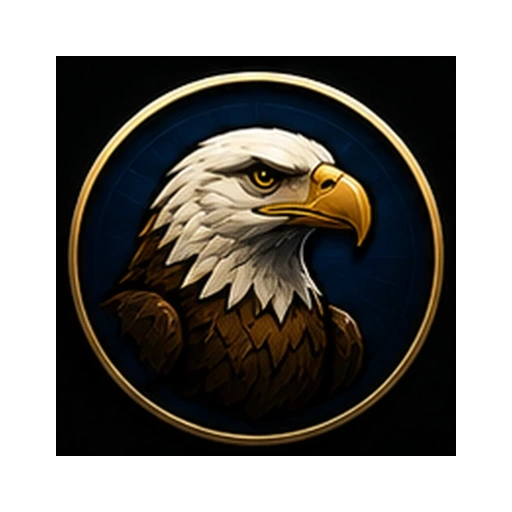
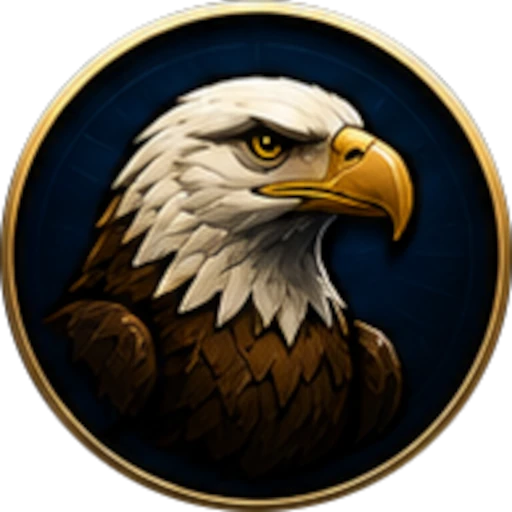
patch-babyfoot-live-header-csc

diff --git a/src/pages/babyfoot/BabyFootPlay.tsx b/src/pages/babyfoot/BabyFootPlay.tsx
@@ -608,6 +608,7 @@ export default function BabyFootPlay({ go, onFinish, params }: Props) {
   const [pickTeam, setPickTeam] = useState<BabyFootTeamId | null>(null);
   const [pickGoalSource, setPickGoalSource] = useState<BabyFootGoalSource>("AV");
   const [cscAwardedTeam, setCscAwardedTeam] = useState<BabyFootTeamId | null>(null);
+  const [cscGlobalPicker, setCscGlobalPicker] = useState(false);
   const [activeTab, setActiveTab] = useState<PlayTab>("score");
   const leagueResultSavedRef = useRef(false);
   const historySavedMatchRef = useRef<string | null>(null);
@@ -738,7 +739,20 @@ export default function BabyFootPlay({ go, onFinish, params }: Props) {
     : regularLimitMs != null
     ? fmt(regularRemain ?? 0)
     : fmt(durationMs);
-  const secondaryLabel = state.setsEnabled ? `BO${state.setsBestOf || 3}` : `Target ${state.target}`;
+  const scoreRuleLabel = (() => {
+    if (state.scoreMode === "balls5") return "5 BALLS";
+    if (state.scoreMode === "balls10") return "10 BALLS";
+    if (state.scoreMode === "balls11") return "11 BALLS";
+    if (state.scoreMode === "chrono") return "CHRONO";
+    return `FIRST ${state.target || 10}`;
+  })();
+  const secondaryLabel = state.setsEnabled ? `BO${state.setsBestOf || 3}` : undefined;
+  const liveRuleLabels = [
+    scoreRuleLabel,
+    state.scoreMode === "chrono" && state.goldenGoal ? "GOLD" : null,
+    state.scoreMode === "chrono" && !state.goldenGoal && (state.overtimeSec || 0) > 0 ? "PROL." : null,
+    state.rulesPreset === "bar" ? "BAR" : "OFFICIAL",
+  ].filter((entry): entry is string => Boolean(entry));
 
   const liveContext = [
     `Leader ${leaderLabel}`,
@@ -1007,11 +1021,25 @@ export default function BabyFootPlay({ go, onFinish, params }: Props) {
     setPickGoalSource("AV");
     setPickTeam(null);
     setCscAwardedTeam(null);
+    setCscGlobalPicker(false);
   };
 
   const openCscPicker = (awardedTeam: BabyFootTeamId) => {
     if (state.finished || state.phase === "penalties") return;
     setCscAwardedTeam(awardedTeam);
+  };
+
+  const openGlobalCscPicker = () => {
+    if (state.finished || state.phase === "penalties") return;
+    setPickTeam(null);
+    setCscAwardedTeam(null);
+    setCscGlobalPicker(true);
+  };
+
+  const applyCscByGuilty = (guiltyTeam: BabyFootTeamId, guiltyPlayerId?: string | null) => {
+    if (state.finished || state.phase === "penalties") return;
+    setState(addSpecialScoreEvent(guiltyTeam, "csc", guiltyPlayerId ?? null, "AV"));
+    closeQuickSheet();
   };
 
   const applyCsc = (awardedTeam: BabyFootTeamId, guiltyPlayerId?: string | null) => {
@@ -1200,6 +1228,7 @@ export default function BabyFootPlay({ go, onFinish, params }: Props) {
               modeLabel={state.mode}
               clockLabel={clockLabel}
               secondaryLabel={secondaryLabel}
+              ruleLabels={liveRuleLabels}
               clockRunning={!!state.clockRunning}
               hasStarted={hasClockStarted}
               onStartClock={() => setState(startClock())}
@@ -1233,6 +1262,7 @@ export default function BabyFootPlay({ go, onFinish, params }: Props) {
                 handicapB={state.handicapB}
                 onAddGoalA={() => openQuickSheet("A", "AV")}
                 onAddGoalB={() => openQuickSheet("B", "AV")}
+                onAddCsc={openGlobalCscPicker}
                 goalsDisabled={state.finished || state.phase === "penalties"}
               />
 
@@ -1362,6 +1392,59 @@ export default function BabyFootPlay({ go, onFinish, params }: Props) {
           ) : null}
         </div>
       </div>
+      {cscGlobalPicker ? (
+        <div
+          style={{
+            position: "fixed",
+            inset: 0,
+            background: "rgba(0,0,0,0.62)",
+            backdropFilter: "blur(6px)",
+            display: "grid",
+            placeItems: "center",
+            padding: 16,
+            zIndex: 80,
+          }}
+          onClick={closeQuickSheet}
+        >
+          <div style={{ ...shellCard(), width: "100%", maxWidth: 440 }} onClick={(e) => e.stopPropagation()}>
+            <div style={{ fontSize: 20, fontWeight: 1100 }}>CSC — joueur fautif</div>
+            <div style={{ marginTop: 8, fontSize: 14, color: "rgba(255,255,255,0.74)" }}>
+              Sélectionne le joueur qui marque contre son camp. Le point est automatiquement donné au camp adverse.
+            </div>
+            <div style={{ marginTop: 16, display: "grid", gap: 14 }}>
+              {(["A", "B"] as BabyFootTeamId[]).map((teamKey) => {
+                const ids = teamKey === "A" ? teamAIds : teamBIds;
+                const accent = teamKey === "A" ? "#c7ff26" : "#ff59b0";
+                const title = teamKey === "A" ? visualA.name : visualB.name;
+                return (
+                  <div key={teamKey} style={{ borderRadius: 18, padding: 10, border: `1px solid ${accent}40`, background: `${accent}10` }}>
+                    <div style={{ color: accent, fontSize: 12, fontWeight: 1100, textTransform: "uppercase", letterSpacing: 0.7 }}>CSC {title}</div>
+                    <div style={{ marginTop: 10, display: "grid", gridTemplateColumns: "repeat(2, minmax(0, 1fr))", gap: 10 }}>
+                      {ids.length ? ids.map((playerId) => {
+                        const profile = getProfile(playerId);
+                        const label = profile?.name || playerId;
+                        return (
+                          <button key={playerId} type="button" onClick={() => applyCscByGuilty(teamKey, playerId)} style={{ minWidth: 0, borderRadius: 16, padding: 10, border: `1px solid ${accent}55`, background: "rgba(255,255,255,.035)", color: "#fff", display: "grid", gap: 8, justifyItems: "center", cursor: "pointer" }}>
+                            <ProfileAvatar profile={profile || { id: playerId, name: playerId }} size={46} />
+                            <span style={{ maxWidth: "100%", whiteSpace: "nowrap", overflow: "hidden", textOverflow: "ellipsis", fontSize: 12, fontWeight: 1100 }}>{label}</span>
+                          </button>
+                        );
+                      }) : (
+                        <button type="button" onClick={() => applyCscByGuilty(teamKey, null)} style={{ ...actionStyle("danger"), gridColumn: "1 / -1" }}>
+                          CSC collectif {title}
+                        </button>
+                      )}
+                    </div>
+                  </div>
+                );
+              })}
+            </div>
+            <button type="button" onClick={closeQuickSheet} style={{ ...actionStyle("neutral"), marginTop: 12 }}>
+              Fermer
+            </button>
+          </div>
+        </div>
+      ) : null}
       {pickTeam ? (
         <div
           style={{

diff --git a/src/components/babyfoot/BabyFootLiveHeader.tsx b/src/components/babyfoot/BabyFootLiveHeader.tsx
@@ -10,6 +10,7 @@ type Props = {
   modeLabel: string;
   clockLabel: string;
   secondaryLabel?: string;
+  ruleLabels?: string[];
   clockRunning: boolean;
   hasStarted: boolean;
   onStartClock: () => void;
@@ -24,13 +25,13 @@ function pill(accent = false): React.CSSProperties {
     display: "inline-flex",
     alignItems: "center",
     justifyContent: "center",
-    minHeight: 30,
-    padding: "0 12px",
+    minHeight: 26,
+    padding: "0 9px",
     borderRadius: 999,
     border: accent ? "1px solid rgba(199,255,38,0.34)" : "1px solid rgba(255,255,255,0.08)",
     background: accent ? "linear-gradient(180deg, rgba(199,255,38,0.18), rgba(199,255,38,0.07))" : "rgba(255,255,255,0.04)",
     color: accent ? "#f5ffbf" : "rgba(255,255,255,0.94)",
-    fontSize: 11,
+    fontSize: 10,
     fontWeight: 1000,
     letterSpacing: 0.25,
     whiteSpace: "nowrap",
@@ -65,7 +66,7 @@ function tabButton(active: boolean): React.CSSProperties {
     border: active ? "1px solid rgba(199,255,38,0.30)" : "1px solid rgba(255,255,255,0.08)",
     background: active ? "linear-gradient(180deg, rgba(199,255,38,0.18), rgba(199,255,38,0.07))" : "rgba(255,255,255,0.04)",
     color: active ? "#f5ffbf" : "rgba(255,255,255,0.92)",
-    fontSize: 11,
+    fontSize: 10,
     fontWeight: 1000,
     letterSpacing: 0.35,
     textTransform: "uppercase",
@@ -99,6 +100,7 @@ export default function BabyFootLiveHeader({
   modeLabel,
   clockLabel,
   secondaryLabel,
+  ruleLabels = [],
   clockRunning,
   hasStarted,
   onStartClock,
@@ -117,11 +119,25 @@ export default function BabyFootLiveHeader({
         boxShadow: "0 18px 42px rgba(0,0,0,0.34)",
       }}
     >
-      <div style={{ display: "flex", alignItems: "center", gap: 8, minWidth: 0 }}>
-        <div style={{ display: "flex", gap: 7, alignItems: "center", minWidth: 0, flex: "1 1 auto", overflowX: "auto", scrollbarWidth: "none" }}>
-          <span style={pill(true)}>{phaseLabel}</span>
-          <span style={pill()}>{modeLabel}</span>
+      <div style={{ display: "grid", gridTemplateColumns: "minmax(0, 1fr) auto", alignItems: "center", gap: 8, minWidth: 0 }}>
+        <div
+          style={{
+            display: "flex",
+            gap: 6,
+            rowGap: 5,
+            alignItems: "center",
+            minWidth: 0,
+            flexWrap: "wrap",
+            overflow: "hidden",
+            maxHeight: 58,
+          }}
+        >
+          {phaseLabel && phaseLabel !== "MATCH" ? <span style={pill(true)}>{phaseLabel}</span> : null}
+          <span style={pill(true)}>{modeLabel}</span>
           {secondaryLabel ? <span style={pill()}>{secondaryLabel}</span> : null}
+          {ruleLabels.map((label) => (
+            <span key={label} style={pill()}>{label}</span>
+          ))}
         </div>
 
         <div

diff --git a/src/components/babyfoot/BabyFootDuelScoreCard.tsx b/src/components/babyfoot/BabyFootDuelScoreCard.tsx
@@ -21,6 +21,7 @@ type Props = {
   handicapB?: number;
   onAddGoalA: () => void;
   onAddGoalB: () => void;
+  onAddCsc?: () => void;
   goalsDisabled?: boolean;
 };
 
@@ -153,13 +154,12 @@ export default function BabyFootDuelScoreCard({
   handicapB = 0,
   onAddGoalA,
   onAddGoalB,
+  onAddCsc,
   goalsDisabled = false,
 }: Props) {
   const green = "#c7ff26";
   const pink = "#ff59b0";
   const setsToWin = Math.max(1, Math.ceil((setsBestOf || 1) / 2));
-  const centerCaption = setsEnabled ? `BO${setsBestOf} • set ${setsA + setsB + 1}/${setsBestOf} • objectif ${setTarget}` : `Objectif ${target}`;
-
   return (
     <div style={{ display: "grid", gap: 12 }}>
       <div
@@ -199,9 +199,6 @@ export default function BabyFootDuelScoreCard({
                 <span style={{ fontSize: 23, lineHeight: 1, fontWeight: 1100, color: "rgba(255,255,255,0.92)" }}>–</span>
                 <span style={{ fontSize: 56, lineHeight: 0.95, fontWeight: 1100, color: pink, textShadow: `0 0 18px ${pink}66` }}>{scoreB}</span>
               </div>
-              <div style={{ marginTop: 6, fontSize: 11, fontWeight: 1000, color: "rgba(255,255,255,0.74)", whiteSpace: "nowrap" }}>
-                {centerCaption}
-              </div>
             </div>
 
             <SideBlock visual={visualB} accent={pink} align="right" setsEnabled={setsEnabled} setsWon={setsB} setsToWin={setsToWin} />
@@ -224,9 +221,18 @@ export default function BabyFootDuelScoreCard({
         </div>
       </div>
 
-      <div style={{ display: "grid", gridTemplateColumns: "1fr 1fr", gap: 12 }}>
+      <div style={{ display: "grid", gridTemplateColumns: "minmax(0, 1fr) auto minmax(0, 1fr)", gap: 10, alignItems: "stretch" }}>
         <button type="button" onClick={onAddGoalA} disabled={goalsDisabled} style={scoreAction(green, goalsDisabled)}>
           + BUT {visualA.name}
+        </button>
+        <button
+          type="button"
+          onClick={onAddCsc}
+          disabled={goalsDisabled || !onAddCsc}
+          style={{ ...scoreAction("#ff4f6d", goalsDisabled || !onAddCsc), width: 72, padding: "0 10px" }}
+          title="But contre son camp"
+        >
+          CSC
         </button>
         <button type="button" onClick={onAddGoalB} disabled={goalsDisabled} style={scoreAction(pink, goalsDisabled)}>
           + BUT {visualB.name}